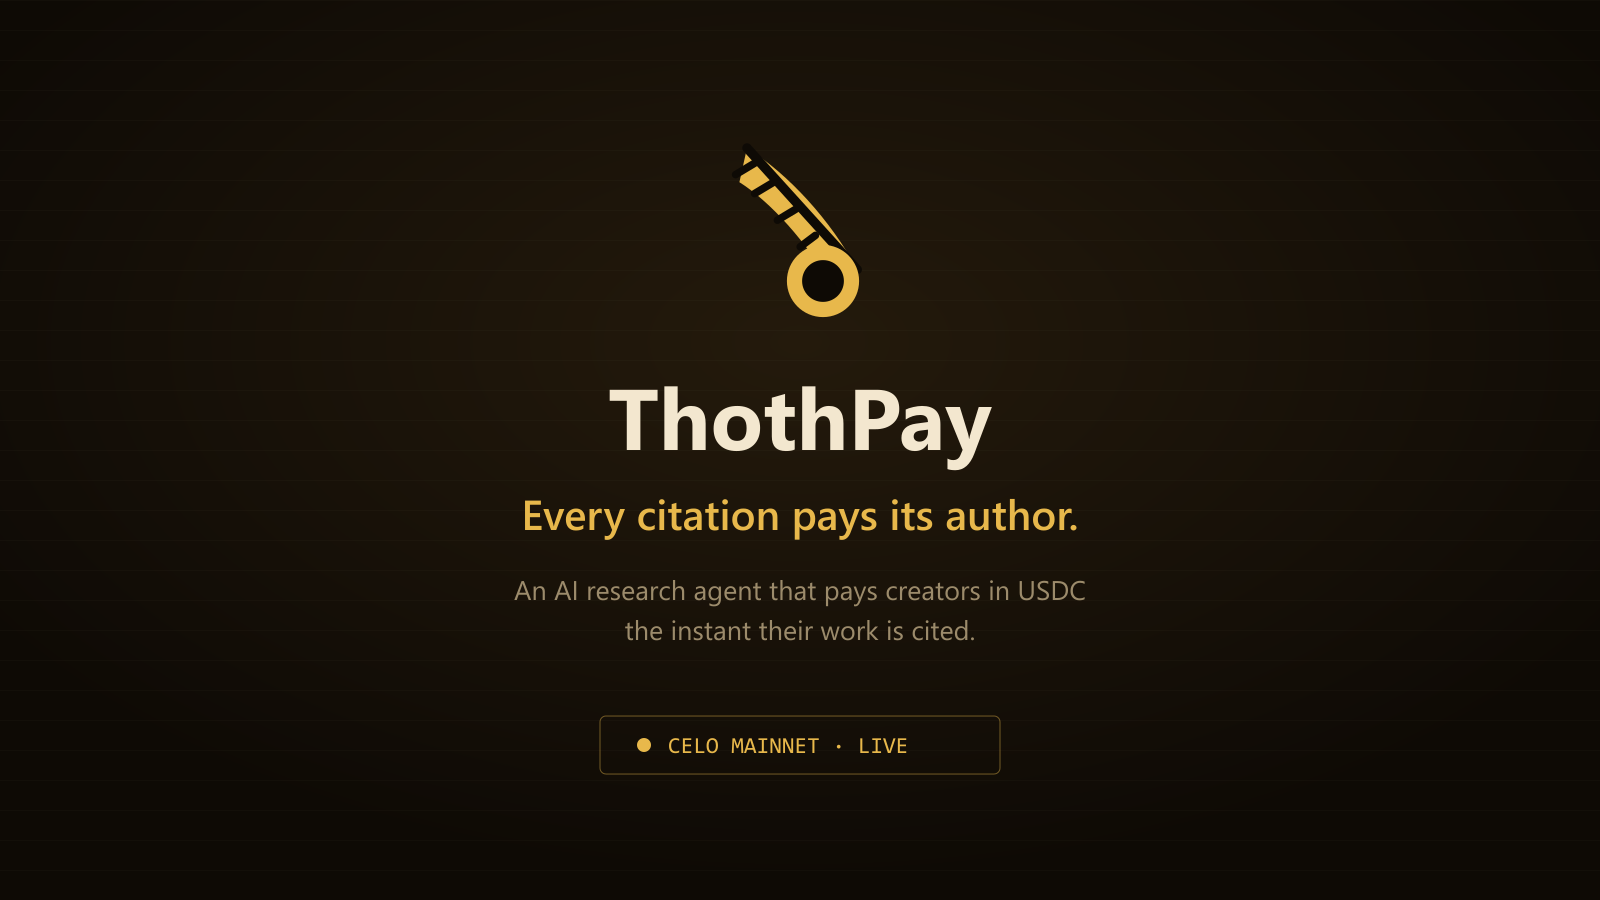
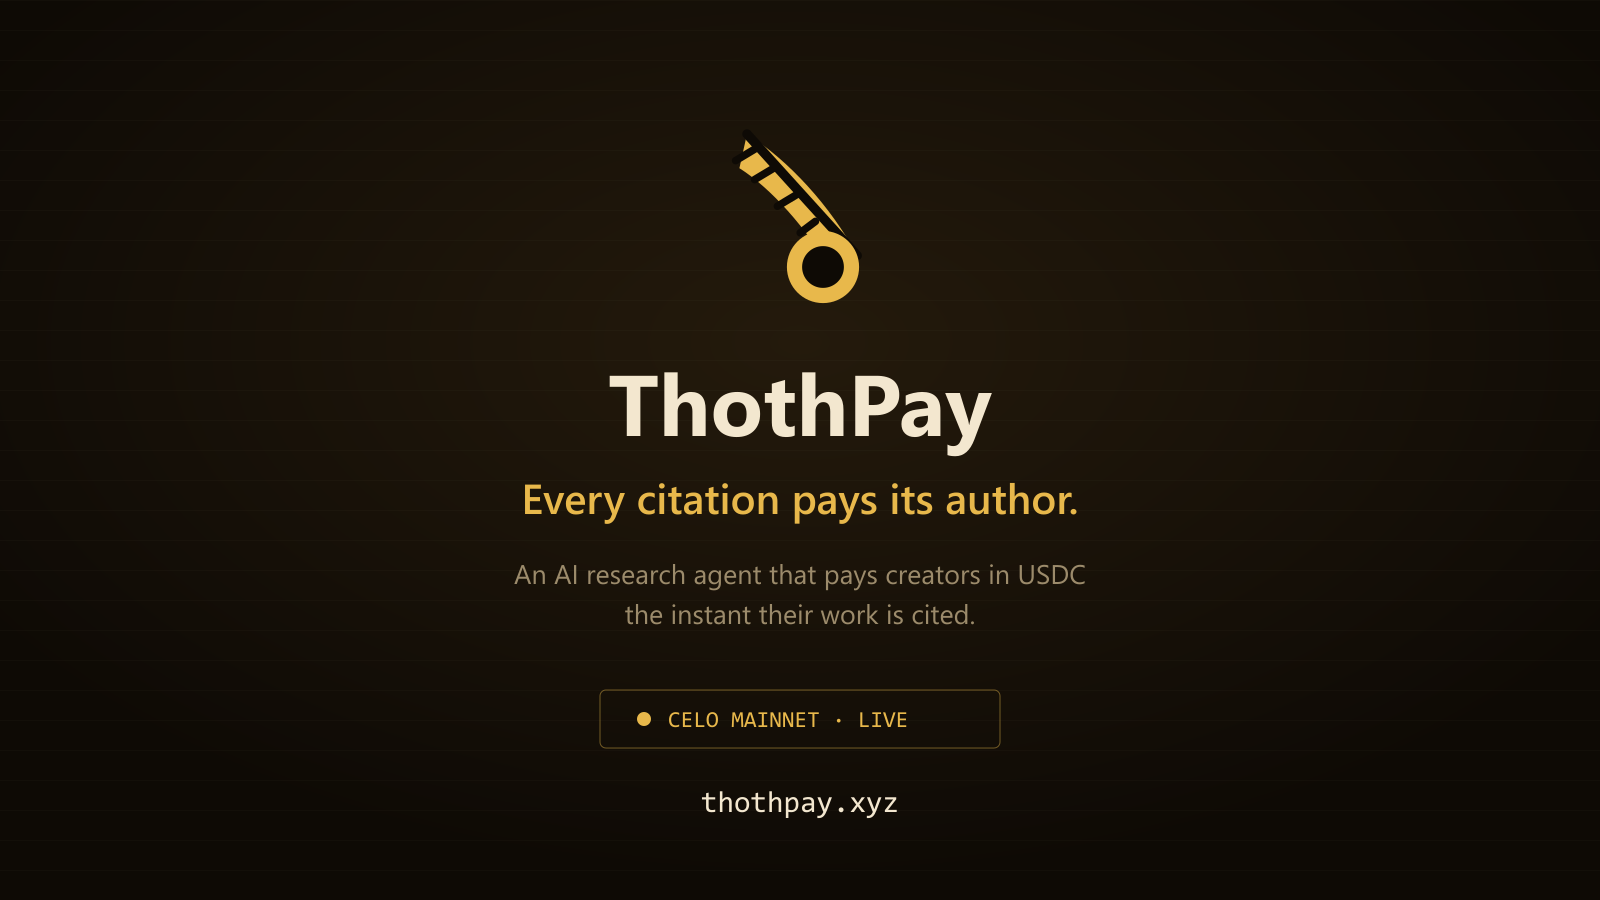
Point agent card and assets at live thothpay.xyz deployment

diff --git a/README.md b/README.md
@@ -3,6 +3,8 @@
 > **The research agent that pays its sources.**
 > Ask a question. Get a grounded, cited answer. The creators behind it get paid — in stablecoins on Celo, automatically, the moment the citation happens.
 
+**Live at [thothpay.xyz](https://www.thothpay.xyz)**
+
 ThothPay is a Web3-native AI research agent built to solve a problem every AI product shares: **content creators are rarely compensated when an agent scrapes and synthesizes their work.** A researcher locks a budget, the agent grounds its answer only in registered, verified sources, and every source it actually cites gets paid on the spot — no subscriptions, no ad revenue splits, no invoices.
 
 ![Next.js](https://img.shields.io/badge/Next.js-16-black?style=flat&logo=next.js)
